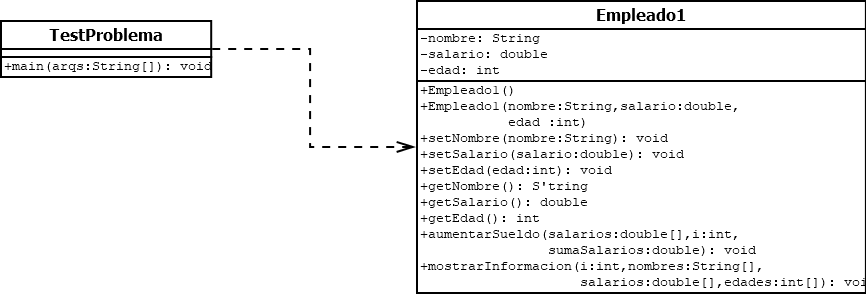
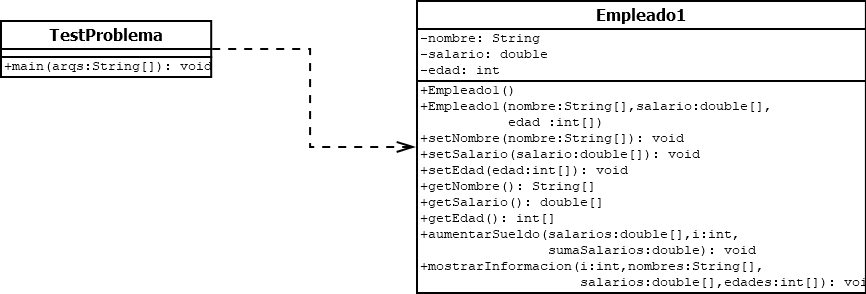
Taller

diff --git a/problema02/TestProblema.java b/problema02/TestProblema.java
@@ -20,22 +20,22 @@ public class TestProblema {
             int opc = entrada.nextInt();
 
             if (opc == 1) {
-                double salario;
-                String nombre;
-                int edad;
                 System.out.println("INGRESE: NOMBRE, SALARIO, EDAD");
-                Empleado1 empleado1 = new Empleado1(nombre=entrada.next(), salario = entrada.nextDouble(), edad=entrada.nextInt());
-                cadenafinal = empleado1 + cadenafinal;
-                salarios[i] = salario;
+                String nombre=entrada.next();
+                double salario=entrada.nextDouble();
+                int edad=entrada.nextInt();
+
+                salarios[i] =salario;
                 nombres[i]=nombre;
                 edades[i]=edad;
+                Borradores.Empleado1 empleado1 = new Borradores.Empleado1(nombres,salarios,edades);
                 sumaSalarios += salario;
                 i++;
             } else if (opc == 2) {
-                Empleado1 empleado1= new Empleado1();
+                Borradores.Empleado1 empleado1= new Borradores.Empleado1();
                 empleado1.mostrarInformacion(i,nombres,salarios,edades);
             } else if (opc == 3) {
-                Empleado1 empleado1= new Empleado1();
+                Borradores.Empleado1 empleado1= new Borradores.Empleado1();
                 empleado1.aumentarSueldo(salarios,i,sumaSalarios);
             } else if (opc == 0) {
                 iniciar = false;
@@ -45,43 +45,43 @@ public class TestProblema {
 }
 
 class Empleado1 {
-    private String nombre;
-    private double salario;
-    private int edad;
+    private String nombre[];
+    private double salario[];
+    private int edad[];
 
     public Empleado1() {}
 
-    public Empleado1(String nombre, double salario, int edad) {
+    public Empleado1(String[] nombre, double[] salario, int[] edad) {
         this.nombre = nombre;
         this.salario = salario;
         this.edad = edad;
     }
 
-    public void setNombre(String nombre) {
+    public void setNombre(String[] nombre) {
         this.nombre = nombre;
     }
 
-    public void setEdad(int edad) {
-        this.edad = edad;
-    }
-
-    public void setSalario(double salario) {
+    public void setSalario(double[] salario) {
         this.salario = salario;
     }
 
-    public String getNombre() {
+    public void setEdad(int[] edad) {
+        this.edad = edad;
+    }
+
+    public String[] getNombre() {
         return nombre;
     }
 
-    public double getSalario() {
+    public double[] getSalario() {
         return salario;
     }
 
-    public int getEdad() {
+    public int[] getEdad() {
         return edad;
     }
 
-    public void aumentarSueldo(double salarios[],int i,double sumaSalarios){
+    public void aumentarSueldo(double salarios[], int i, double sumaSalarios){
         Scanner entrada= new Scanner(System.in);
         System.out.println("Ingrese el porcentaje que desea aumentar de salario");
         double aumentoSalario = entrada.nextDouble();
@@ -100,7 +100,7 @@ class Empleado1 {
     }
     public void mostrarInformacion(int i, String nombres[],double salarios[], int edades[]) {
         for (int j = 0; j < i; j++) {
-            System.out.println("Nombre: "+nombres[j]+", Salario: "+salarios[j]+", Edades: "+edades[j]);
+            System.out.println("Nombre: "+nombres[j]+", Salario: "+salarios[j]+", Edad: "+edades[j]);
         }
     }
 
